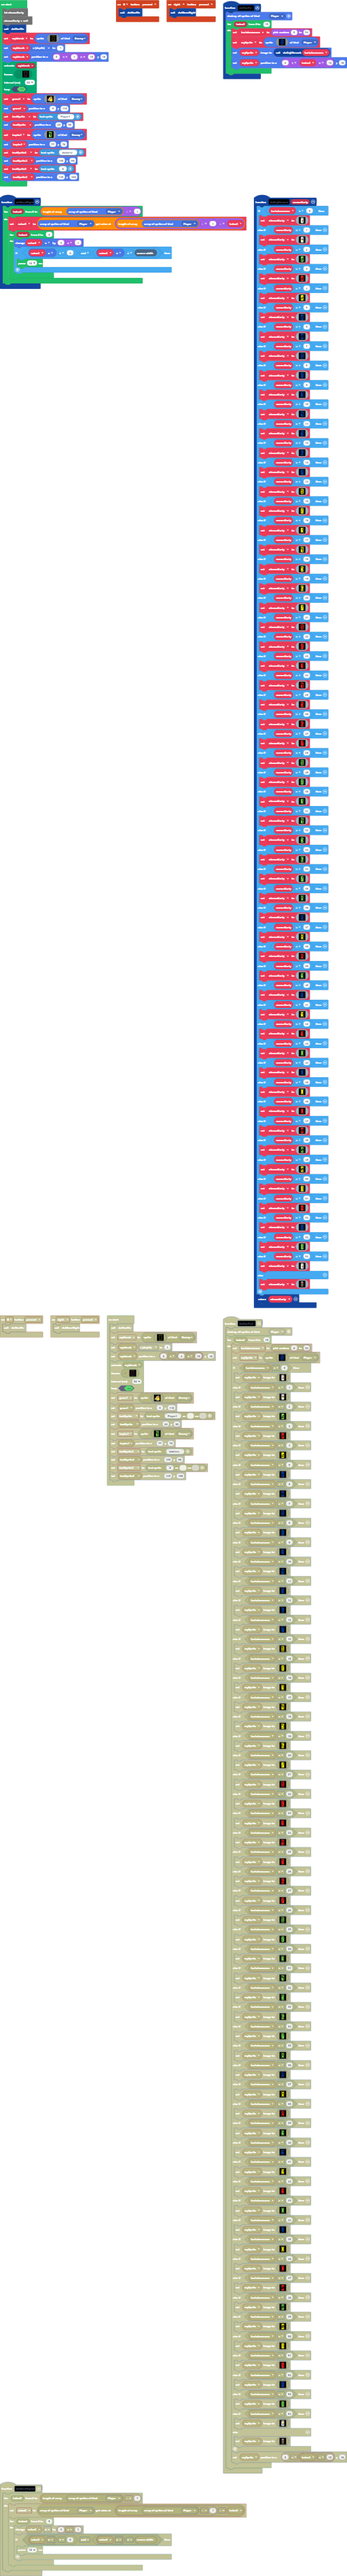
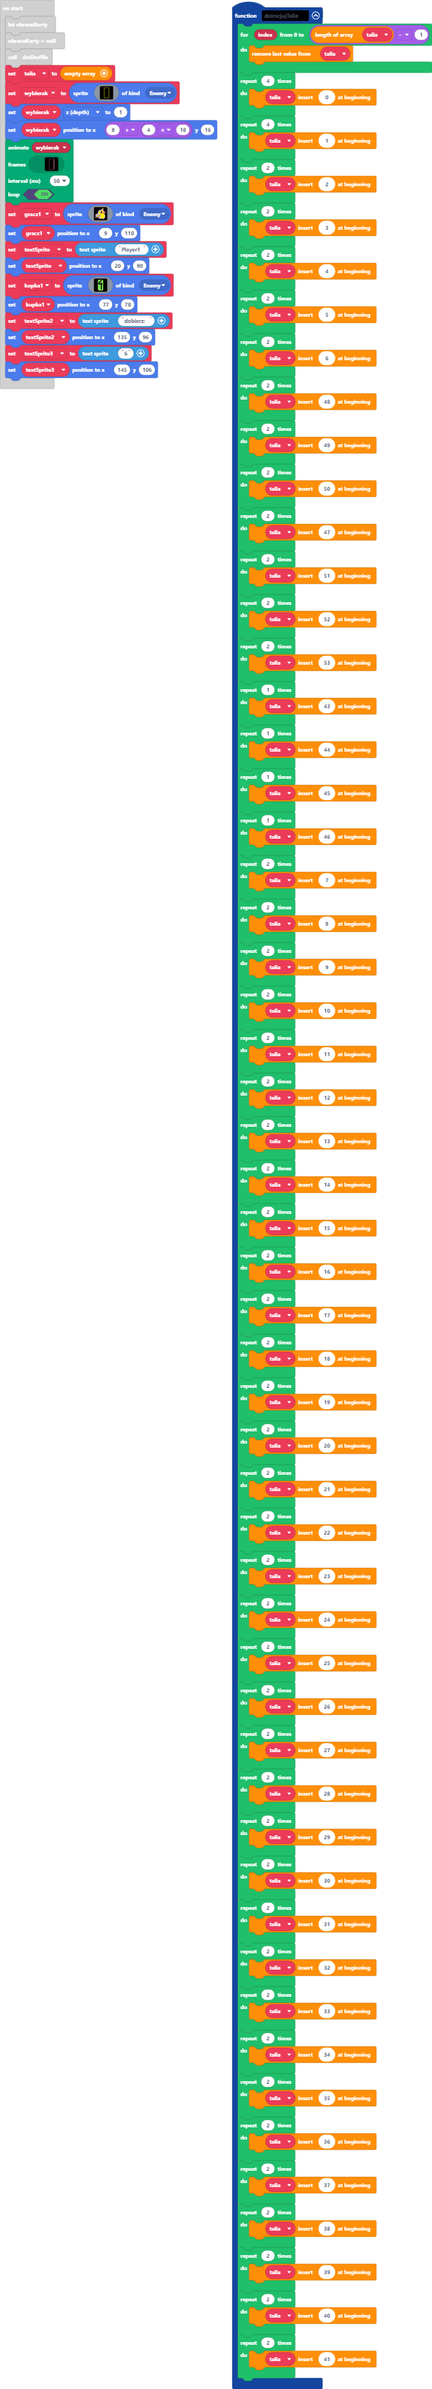
Tworzenie talii

diff --git a/main.ts b/main.ts
@@ -29,6 +29,170 @@ function doShuffle () {
         mySprite.setPosition(8 + index2 * 18, 16)
     }
 }
+function doInicjujTalie () {
+    for (let index = 0; index <= talia.length - 1; index++) {
+        talia.pop()
+    }
+    for (let index = 0; index < 4; index++) {
+        talia.unshift(0)
+    }
+    for (let index = 0; index < 4; index++) {
+        talia.unshift(1)
+    }
+    for (let index = 0; index < 2; index++) {
+        talia.unshift(2)
+    }
+    for (let index = 0; index < 2; index++) {
+        talia.unshift(3)
+    }
+    for (let index = 0; index < 2; index++) {
+        talia.unshift(4)
+    }
+    for (let index = 0; index < 2; index++) {
+        talia.unshift(5)
+    }
+    for (let index = 0; index < 2; index++) {
+        talia.unshift(6)
+    }
+    for (let index = 0; index < 2; index++) {
+        talia.unshift(48)
+    }
+    for (let index = 0; index < 2; index++) {
+        talia.unshift(49)
+    }
+    for (let index = 0; index < 2; index++) {
+        talia.unshift(50)
+    }
+    for (let index = 0; index < 2; index++) {
+        talia.unshift(47)
+    }
+    for (let index = 0; index < 2; index++) {
+        talia.unshift(51)
+    }
+    for (let index = 0; index < 2; index++) {
+        talia.unshift(52)
+    }
+    for (let index = 0; index < 2; index++) {
+        talia.unshift(53)
+    }
+    for (let index = 0; index < 1; index++) {
+        talia.unshift(43)
+    }
+    for (let index = 0; index < 1; index++) {
+        talia.unshift(44)
+    }
+    for (let index = 0; index < 1; index++) {
+        talia.unshift(45)
+    }
+    for (let index = 0; index < 1; index++) {
+        talia.unshift(46)
+    }
+    for (let index = 0; index < 2; index++) {
+        talia.unshift(7)
+    }
+    for (let index = 0; index < 2; index++) {
+        talia.unshift(8)
+    }
+    for (let index = 0; index < 2; index++) {
+        talia.unshift(9)
+    }
+    for (let index = 0; index < 2; index++) {
+        talia.unshift(10)
+    }
+    for (let index = 0; index < 2; index++) {
+        talia.unshift(11)
+    }
+    for (let index = 0; index < 2; index++) {
+        talia.unshift(12)
+    }
+    for (let index = 0; index < 2; index++) {
+        talia.unshift(13)
+    }
+    for (let index = 0; index < 2; index++) {
+        talia.unshift(14)
+    }
+    for (let index = 0; index < 2; index++) {
+        talia.unshift(15)
+    }
+    for (let index = 0; index < 2; index++) {
+        talia.unshift(16)
+    }
+    for (let index = 0; index < 2; index++) {
+        talia.unshift(17)
+    }
+    for (let index = 0; index < 2; index++) {
+        talia.unshift(18)
+    }
+    for (let index = 0; index < 2; index++) {
+        talia.unshift(19)
+    }
+    for (let index = 0; index < 2; index++) {
+        talia.unshift(20)
+    }
+    for (let index = 0; index < 2; index++) {
+        talia.unshift(21)
+    }
+    for (let index = 0; index < 2; index++) {
+        talia.unshift(22)
+    }
+    for (let index = 0; index < 2; index++) {
+        talia.unshift(23)
+    }
+    for (let index = 0; index < 2; index++) {
+        talia.unshift(24)
+    }
+    for (let index = 0; index < 2; index++) {
+        talia.unshift(25)
+    }
+    for (let index = 0; index < 2; index++) {
+        talia.unshift(26)
+    }
+    for (let index = 0; index < 2; index++) {
+        talia.unshift(27)
+    }
+    for (let index = 0; index < 2; index++) {
+        talia.unshift(28)
+    }
+    for (let index = 0; index < 2; index++) {
+        talia.unshift(29)
+    }
+    for (let index = 0; index < 2; index++) {
+        talia.unshift(30)
+    }
+    for (let index = 0; index < 2; index++) {
+        talia.unshift(31)
+    }
+    for (let index = 0; index < 2; index++) {
+        talia.unshift(32)
+    }
+    for (let index = 0; index < 2; index++) {
+        talia.unshift(33)
+    }
+    for (let index = 0; index < 2; index++) {
+        talia.unshift(34)
+    }
+    for (let index = 0; index < 2; index++) {
+        talia.unshift(35)
+    }
+    for (let index = 0; index < 2; index++) {
+        talia.unshift(36)
+    }
+    for (let index = 0; index < 2; index++) {
+        talia.unshift(37)
+    }
+    for (let index = 0; index < 2; index++) {
+        talia.unshift(38)
+    }
+    for (let index = 0; index < 2; index++) {
+        talia.unshift(39)
+    }
+    for (let index = 0; index < 2; index++) {
+        talia.unshift(40)
+    }
+    for (let index = 0; index < 2; index++) {
+        talia.unshift(41)
+    }
+}
 controller.right.onEvent(ControllerButtonEvent.Pressed, function () {
     doMoveRight()
 })
@@ -162,9 +326,11 @@ function doDajObrazek (numerKarty: number) {
 let value3: Sprite = null
 let mySprite: Sprite = null
 let kartalosowana = 0
+let talia: number[] = []
 let obrazeKarty
 obrazeKarty = null
 doShuffle()
+talia = []
 let wybierak = sprites.create(assets.image`selector_off`, SpriteKind.Enemy)
 wybierak.z = 1
 wybierak.setPosition(8 + 4 * 18, 16)
